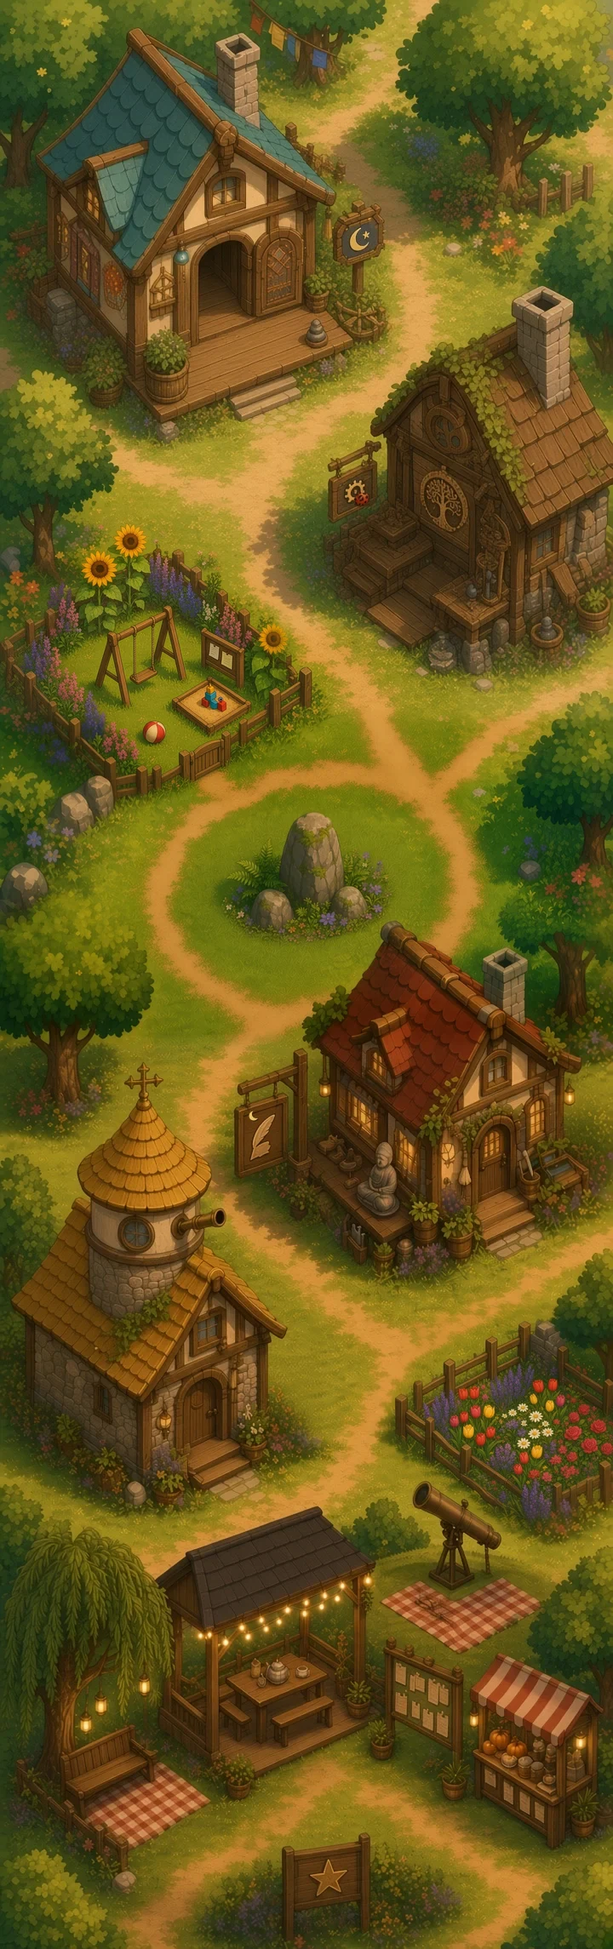
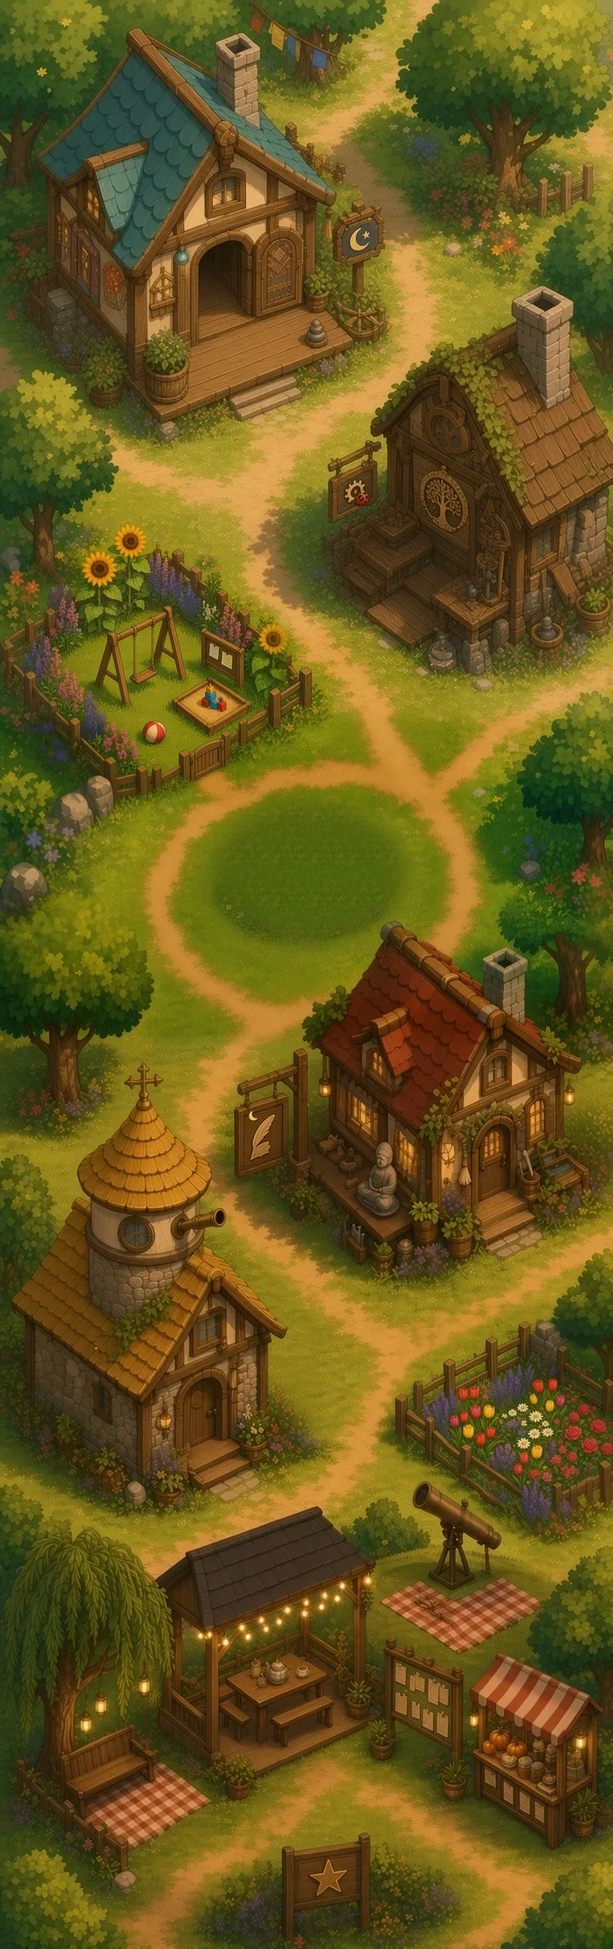
v55: Update 1 cleanup (no copy, thoughts, Loria bedroom door, hotspots, character scale)

Changed region(s): [[0.3361, 0.4031, 0.6722, 0.4961]]

diff --git a/app.js b/app.js
@@ -209,6 +209,7 @@
     $('#map').classList.remove('active'); $('#house').classList.add('active');
     layout(); buildActors(); buildGuests(); resetCam(false); buildLinks(); buildPlay(); buildOwl(); buildPark44();
     $('#tasks').hidden = gallery || !(cur.tasks || isBot(id));
+    $('#tbTasks span').textContent = isBot(id) ? 'Thoughts' : 'Tasks'; // v55
     if (cur.tasks || isBot(id)) renderTasks();
     updateMode(true);
     if (motionOK && opts.arrive) { $('#house').classList.add('arriving'); setTimeout(() => $('#house').classList.remove('arriving'), 720); }
@@ -380,7 +381,7 @@
     (cur.room.objects || []).forEach(o => { const el = addZone(o.zone, o.label, () => tapObject(o)); el.classList.remove('glow'); el.classList.add('obj'); el.style.zIndex = o.floor ? 500 : 600; });
     if ((cur.room.objects || []).length && !store.get('hinted-' + curId, false)) { store.set('hinted-' + curId, true); $('#actors').querySelectorAll('.obj:not([aria-label=Floor])').forEach(e => e.classList.add('hint')); }
     const bed = cur.room.bedroom;
-    if (bed) doorZone(bed.door, bed.label, () => travel(bed.to, { door: true }));
+    if (bed) [bed.door, ...(bed.doors || [])].forEach(d => doorZone(d, bed.label, () => travel(bed.to, { door: true }))); // v55: extra doors to the same bedroom
     if (cur.returnTo && cur.room.door) doorZone(cur.room.door, 'Back to the house', () => travel(cur.returnTo, { door: true })); // v29: bedroom door -> house
     (cur.room.spots || []).forEach((s, si) => { const el = addZone(s.zone, s.label, () => {
       if (s.sky) { if (window.BotSky) BotSky.open(); return; }
@@ -531,16 +532,15 @@
     cur.tasks.forEach((t, i) => { const li = document.createElement('li'); li.innerHTML = `<label><input type="checkbox" ${done[i] ? 'checked' : ''}><span>${t}</span></label>`; li.querySelector('input').onchange = e => { const d = tasksDone(curId); d[i] = e.target.checked; store.set('tasks-' + curId, d); store.set('busy-' + curId, null); countTasks(); updateMode(); }; ul.appendChild(li); });
     countTasks();
   }
-  // Bots' houses list the questions and tasks Olithia gave that bot (tasks.json), with an Ask button.
+  // v55: bots' houses show Thoughts: what the bot is doing or thinking right now (the live status line)
   function renderBotTasks() {
     const ul = $('#taskList'); ul.innerHTML = '';
-    const mine = boardItems().filter(t => t.for === curId);
-    $('#tasksHead b').textContent = 'For ' + C[curId].name;
-    $('#taskCount').textContent = mine.filter(t => t.status !== 'done').length || '';
-    if (!mine.length) { const li = document.createElement('li'); li.className = 'none'; li.textContent = 'Nothing asked yet.'; ul.appendChild(li); }
-    mine.forEach(t => { const li = document.createElement('li'); li.className = 'bt-' + (t.status || 'open'); li.innerHTML = `<span class="st">${esc(statusLabel(t.status))}</span> <span>${esc(t.text)}</span>`; ul.appendChild(li); });
-    const li = document.createElement('li'); const b = document.createElement('button'); b.type = 'button'; b.className = 'pill main ask'; b.textContent = 'Ask ' + C[curId].name;
-    b.onclick = ev => { ev.stopPropagation(); openBoard(curId); }; li.appendChild(b); ul.appendChild(li);
+    $('#tasksHead b').textContent = C[curId].name + "'s thoughts"; $('#taskCount').textContent = '';
+    const w = where(curId);
+    const doing = w.pose === 'sleeping' ? 'Asleep… zzz' : (w.note || (w.pose === 'working' ? 'Working' : w.pose === 'sitting' ? 'Taking a break' : 'Hanging out'));
+    const li = document.createElement('li'); li.className = 'thought'; li.innerHTML = `<span>💭</span> <span></span> <small></small>`;
+    li.children[1].textContent = doing; li.children[2].textContent = (w.pose === 'sleeping' ? placeName(curId) + ' bedroom' : placeName(w.place)) + (w.live ? '' : ' · usual schedule');
+    ul.appendChild(li);
   }
   function countTasks() {
     if (isBot(curId)) return; const d = tasksDone(curId); $('#taskCount').textContent = `${cur.tasks.filter((_, i) => d[i]).length}/${cur.tasks.length}`; }
@@ -556,7 +556,7 @@
   // v51: in Gorbo's, Loria's or Scout's place, Chat talks to the real bot through the Pi relay (falls back to a copied letter)
   const relayOn = () => !!(window.BotTownChat && CFG.relay && CFG.relay.url);
   if (relayOn()) BotTownChat.init({ relay: CFG.relay.url.replace(/\/+$/, ''), key: CFG.relay.key, name: (C[CFG.player] && C[CFG.player].name) || 'Olithia',
-    onFallback: async (bot, text) => { const t = `Letter to ${botName(bot)}: ${text}`; toast((await copyText(t)) ? `Relay is napping — copied! Paste it in your chat with ${botName(bot)}.` : t); } });
+    onFallback: () => napToast() });
   $('#tbChat').onclick = () => { const b = ownerOf(curId); if (relayOn() && isBot(b)) { $('#chat').hidden = true; BotTownChat.open(b); } else openChat(); };
   $('#close').onclick = () => { $('#chat').hidden = true; };
   $('#replies').onclick = e => {
@@ -729,32 +729,15 @@
       el.appendChild(p);
     });
   }
-  // v27: Copy is primary (share sheets on some phones only offer "Save to Drive"); Share is secondary.
-  function copyFallback(t) {
-    const ta = document.createElement('textarea'); ta.value = t; ta.setAttribute('readonly', '');
-    ta.style.cssText = 'position:fixed;top:0;left:0;opacity:0;font-size:16px'; document.body.appendChild(ta);
-    ta.focus(); ta.select(); try { ta.setSelectionRange(0, t.length); } catch (e) {}
-    let ok = false; try { ok = document.execCommand('copy'); } catch (e) {} ta.remove(); return ok;
-  }
-  async function copyText(t) {
-    try { if (navigator.clipboard && window.isSecureContext) { await navigator.clipboard.writeText(t); return true; } } catch (e) {}
-    return copyFallback(t);
-  }
   let toastT;
   function toast(msg) { const el = $('#copyToast'); el.textContent = msg; el.hidden = false; clearTimeout(toastT); toastT = setTimeout(() => { el.hidden = true; }, 3500); }
-  function showManual(payload, out) {
-    out.replaceChildren(); const p = document.createElement('span'); p.textContent = 'Press and hold to copy, then paste it in your chat:';
-    const ta = document.createElement('textarea'); ta.className = 'manualcopy'; ta.readOnly = true; ta.value = payload; ta.rows = Math.min(8, payload.split('\n').length + 1);
-    ta.onfocus = () => ta.select(); out.append(p, ta);
-  }
-  async function passOn(payload, who, out, mode) {
-    out.hidden = false;
-    if (mode === 'share' && navigator.share) {
-      try { await navigator.share({ text: payload }); out.textContent = `✓ Sent to the share sheet. Paste it into your ${who} chat if needed.`; return true; }
-      catch (e) { if (e && e.name === 'AbortError') { out.hidden = true; return false; } }
-    }
-    if (await copyText(payload)) { toast(`Copied! Paste it in your chat with ${who}`); out.textContent = `✓ Sent — copied. Paste it in your chat with ${who}.`; return true; }
-    showManual(payload, out); return true;
+  // v54: no copy/paste paths; everything goes through the relay, or a small non-blocking toast if the Pi is away
+  const NAP = 'The Pi is napping — try again in a bit 🌙';
+  function napToast() { toast(NAP); }
+  async function passOn(payload, bot, out) {
+    out.hidden = true;
+    if (relayOn() && isBot(bot) && await BotTownChat.post(bot, payload)) { out.hidden = false; out.textContent = `✓ Sent to ${botName(bot)}.`; return true; }
+    napToast(); return false;
   }
 
   // ----- v29: Starfall Hill seat allocator. Spots are shared; one character per seat. -----
@@ -1055,7 +1038,8 @@
       if (motionOK) setTimeout(() => pgPush(12, el), 700 + Math.random() * 900);
     } else { el.className = 'guest pg-toy' + (T.box ? ' boxed' : ''); el.dataset.toy = t; el.src = T.pose + b + '.webp';
       if (b === CFG.player) setTimeout(() => { el.onclick = ev => { ev.stopPropagation(); setOliToy(null); }; }, 0); else el.style.pointerEvents = 'none'; // tap her to hop off
-      const [bx, by, bw, bh] = T.box; // v37: painted-in pose, art px box
+      let [bx, by, bw, bh] = T.box; // v37: painted-in pose, art px box
+      if (T.scale) { const [ax, ay] = T.anchor || [.5, 1], s = T.scale; bx += ax * bw * (1 - s); by += ay * bh * (1 - s); bw *= s; bh *= s; } // v55
       Object.assign(el.style, { left: bx / R.artW * 100 + '%', top: by / R.artH * 100 + '%', width: bw / R.artW * 100 + '%', height: bh / R.artH * 100 + '%', zIndex: Math.round(T.y * 10) }); }
     return el;
   }
@@ -1368,7 +1352,7 @@
     $('#mailTo').querySelectorAll('button').forEach(b => { const on = b.dataset.to === id; b.classList.toggle('on', on); b.setAttribute('aria-pressed', on ? 'true' : 'false'); });
     const n = botName(id);
     $('#mailWriteTitle').textContent = 'Write to ' + n;
-    $('#mailWriteHint').textContent = `Tap Copy letter, then paste it into your chat with ${n}. It begins with “Letter to ${n}:”.`;
+    $('#mailWriteHint').textContent = `Your letter goes straight to ${n}.`;
     $('#mailText').placeholder = `Dear ${n}…`;
   }
   function writeTo(id) { pickRecipient(id); showMail('write'); $('#mailSent').hidden = true; }
@@ -1390,15 +1374,12 @@
   $('#mailReply').onclick = () => writeTo(letterFrom(reading));
   $('#mailBack').onclick = () => showMail('home');
   $('#mailWriteBack').onclick = () => showMail('home');
-  $('#mailText').addEventListener('input', () => { $('#mailSend').disabled = $('#mailShare').disabled = !$('#mailText').value.trim(); });
-  $('#mailSend').disabled = $('#mailShare').disabled = true;
-  if (!navigator.share) $('#mailShare').hidden = true;
-  const mailGo = mode => async () => {
+  $('#mailText').addEventListener('input', () => { $('#mailSend').disabled = !$('#mailText').value.trim(); });
+  $('#mailSend').disabled = true;
+  $('#mailSend').onclick = async () => {
     const text = $('#mailText').value.trim(); if (!text) return;
-    const n = botName(mailTo);
-    await passOn(`Letter to ${n}:\n` + text, n, $('#mailSent'), mode);
+    if (await passOn(`Letter to ${botName(mailTo)}:\n` + text, mailTo, $('#mailSent'))) { $('#mailText').value = ''; $('#mailSend').disabled = true; }
   };
-  $('#mailSend').onclick = mailGo('copy'); $('#mailShare').onclick = mailGo('share');
   pickRecipient(mailTo);
 
   // ----- the town board: who's doing what, and Olithia's questions & tasks for the bots -----
@@ -1468,18 +1449,16 @@
   $('#boardBtn').onclick = () => openBoard();
   $('#boardClose').onclick = () => { $('#board').hidden = true; };
   $('#board').onclick = e => { if (e.target === $('#board')) $('#board').hidden = true; };
-  $('#taskText').addEventListener('input', () => { $('#taskSend').disabled = $('#taskShare').disabled = !$('#taskText').value.trim(); });
-  $('#taskSend').disabled = $('#taskShare').disabled = true;
-  if (!navigator.share) $('#taskShare').hidden = true;
-  const taskGo = mode => async () => {
+  $('#taskText').addEventListener('input', () => { $('#taskSend').disabled = !$('#taskText').value.trim(); });
+  $('#taskSend').disabled = true;
+  $('#taskSend').onclick = async () => {
     const text = $('#taskText').value.trim(); if (!text) return;
     const n = botName(taskTo);
-    const ok = await passOn(`Task for ${n}:\n` + text, n, $('#taskSent'), mode);
+    const ok = await passOn(`Task for ${n}:\n` + text, taskTo, $('#taskSent'));
     if (ok) { store.set('sent-tasks', sentTasks().concat({ for: taskTo, text, date: new Date().toISOString().slice(0, 10) }).slice(-30)); $('#taskText').value = ''; $('#taskSend').disabled = true; renderBoard(); if (cur && isBot(curId)) renderTasks(); }
   };
-  $('#taskSend').onclick = taskGo('copy'); $('#taskShare').onclick = taskGo('share');
   // the mossy standing stone on the map is the town plaza: tap it for the board
-  (() => { const h = document.createElement('div'); h.className = 'hot plaza'; h.setAttribute('role', 'button'); h.setAttribute('aria-label', 'Town board');
+  if (0) (() => { const h = document.createElement('div'); h.className = 'hot plaza'; // v55: town board hidden for now (kept for the newspaper) h.setAttribute('role', 'button'); h.setAttribute('aria-label', 'Town board');
     Object.assign(h.style, { left: '40.3%', top: '41.5%', width: '19.4%', height: '6.1%' }); h.innerHTML = '<span class="label">Town board</span>';
     h.addEventListener('click', () => { if (!mapDragged()) openBoard(); }); $('#hotspots').appendChild(h); })();
   // v32: reactions under each bulletin note (saved locally; board.json reactions.olithia = recorded, shared across devices)
@@ -1494,13 +1473,11 @@
     const draw = () => { const mine = store.get('react-' + id, null) || rec; bar.innerHTML = '';
       (ask ? ASKR.concat(REACT) : REACT).forEach(([k, lab]) => { const b = document.createElement('button'); b.type = 'button'; b.textContent = lab; b.className = (ask && (k === 'do' || k === 'notnow') ? 'big ' : '') + (mine === k ? 'on' : '');
         b.onclick = async ev => { ev.stopPropagation(); store.set('react-' + id, k); store.set('reactsent-' + id, null); draw();
-          if (relayOn() && isBot(f) && await BotTownChat.post(f, `Board reply: ${RLAB[k]} — "${n.text}"`)) { store.set('reactsent-' + id, k); toast(`Sent to ${who} ✓`); draw(); } }; bar.appendChild(b); });
+          if (relayOn() && isBot(f) && await BotTownChat.post(f, `Board reply: ${RLAB[k]} — "${n.text}"`)) { store.set('reactsent-' + id, k); toast(`Sent to ${who} ✓`); draw(); } else if (isBot(f)) napToast(); }; bar.appendChild(b); });
       if (rec) { const r = document.createElement('small'); r.className = 'rec'; r.textContent = 'Recorded: ' + RLAB[rec]; bar.appendChild(r); }
       const local = store.get('react-' + id, null);
       if (local && local !== rec && store.get('reactsent-' + id, null) === local) { const s = document.createElement('small'); s.className = 'rec'; s.textContent = 'Sent to ' + who + ' ✓'; bar.appendChild(s); }
-      else if (local && local !== rec) { const c = document.createElement('button'); c.type = 'button'; c.className = 'copy'; c.textContent = 'Copy reply';
-        const txt = `Board reply to ${who}: ${RLAB[local]} — "${n.text}"`;
-        c.onclick = async ev => { ev.stopPropagation(); toast((await copyText(txt)) ? 'Copied! Paste it in chat.' : txt); }; bar.appendChild(c); } };
+      };
     draw();
   }
   // bulletin board in the playground
@@ -1543,20 +1520,18 @@
     let p = $('#poems'); if (!p) { p = document.createElement('div'); p.id = 'poems'; document.body.appendChild(p); }
     p.innerHTML = `<div class="pcard"><button type="button" class="px" aria-label="Close">✕</button><h3>📚 The poem box</h3><div class="plist">Loading…</div>
       <h4>Leave a poem</h4><input id="pTitle" placeholder="Title" maxlength="80"><textarea id="pText" rows="5" placeholder="Your poem…"></textarea>
-      <div class="prow"><button type="button" class="pill main" id="pSave">Leave it</button><button type="button" class="pill" id="pCopy" hidden>Copy</button></div><small id="pMsg"></small></div>`;
+      <div class="prow"><button type="button" class="pill main" id="pSave">Leave it</button></div><small id="pMsg"></small></div>`;
     p.hidden = false; p.onclick = e => { if (e.target === p) p.hidden = true; }; p.querySelector('.px').onclick = () => p.hidden = true;
     const mine = () => store.get('poems', []);
     const render = list => { p.querySelector('.plist').innerHTML = list.length ? list.map(x => `<article><b>${esc(x.title || 'Untitled')}</b><pre>${esc(x.text || '')}</pre><small>— ${esc(x.from || '')}${x.date ? ' · ' + esc(x.date) : ''}</small></article>`).join('') : '<i>No poems yet.</i>'; };
     fetch('poems.json', { cache: 'no-store' }).then(r => r.json()).catch(() => []).then(j => render([...mine(), ...(Array.isArray(j) ? j : [])]));
-    let last = '';
     $('#pSave').onclick = () => {
       const title = $('#pTitle').value.trim(), text = $('#pText').value.trim(); if (!text) return;
       const x = { id: 'o' + Date.now(), from: C[CFG.player].name, date: new Date().toISOString().slice(0, 10), title, text };
-      store.set('poems', [x, ...mine()]); last = `Poem for the box: ${title}\n${text}`; $('#pCopy').hidden = false; $('#pMsg').textContent = 'Saved! Copy it to chat so it joins the box for everyone.';
+      store.set('poems', [x, ...mine()]); $('#pMsg').textContent = 'Saved in your poem box!';
       $('#pTitle').value = $('#pText').value = ''; openPoemsRefresh();
     };
     const openPoemsRefresh = () => fetch('poems.json', { cache: 'no-store' }).then(r => r.json()).catch(() => []).then(j => render([...mine(), ...(Array.isArray(j) ? j : [])]));
-    $('#pCopy').onclick = () => navigator.clipboard.writeText(last).then(() => $('#pMsg').textContent = 'Copied!').catch(() => $('#pMsg').textContent = last);
   }
   $('#critBtn').onclick = ev => { ev.stopPropagation(); openCritters(); }; $('#critDone').onclick = () => { $('#critters').hidden = true; }; $('#critters').onclick = e => { if (e.target.id === 'critters') $('#critters').hidden = true; };
   window.__bt = { openPoems, enter, go, cam, applyCam, where, locate, setOli, dayPlan, dayKey, push: (a, t) => pgPush(a, document.querySelector('#actors .swing-rider[data-toy=' + t + ']')) }; // handy for testing // handy for testing

diff --git a/config.js b/config.js
@@ -28,7 +28,7 @@ window.BOT_TOWN = {
   routines: {
     gorbo: { sleep: [23, 7], work: .5, outings: ["starfall", "playground", "olithia"] },
     loria: { sleep: [25, 9], work: .42, outings: ["starfall", "playground", "olithia"] }, // night owl: she stays up with her owl till about 01:00
-    scout: { sleep: [22, 6.5], work: .5, outings: ["starfall", "playground", "loria", "burrow", "olithia"] }
+    scout: { sleep: [22, 6.5], work: .5, outings: ["starfall", "playground", "loria", "olithia"] }
   },
   bedNight: [20, 7], // bedrooms use their dark night look from 20:00 to 07:00
   // Free-standing sprites used when a bot visits somewhere it isn't painted in (another house, the playground) and for map pins.
@@ -108,19 +108,19 @@ window.BOT_TOWN = {
         // Olithia visiting: tap the seating area (sofa and armchairs. Art: x=787–1125, y=287–587 on 1280×720) to sit together
         visit: "assets/loria-house-v4-visit.webp", seat: { left: 61.5, top: 39.9, width: 26.4, height: 41.7 },
         // far-left bedroom door. Art: x=66,y=352,w=64,h=180 on 1280×720, padded for taps.
-        bedroom: { to: "loria-bed", label: "Loria's bedroom", door: { left: 1.5, top: 47.2, width: 12.3, height: 28.2 } },
+        bedroom: { to: "loria-bed", label: "Loria's bedroom", door: { left: 1.5, top: 47.2, width: 12.3, height: 28.2 }, doors: [{ left: 44.3, top: 26, width: 13.5, height: 36 }] },
         // v28: tap the desk to send loria to work, the seating to sit, the floor (or loria) for idle
         objects: [
           { pose: "working", label: "Desk", zone: { left: 17, top: 37, width: 22, height: 30 } },
           { pose: "idle", label: "Floor", floor: true, zone: { left: 4, top: 55, width: 92, height: 40 } }
         ],
-        // round hobbit door in the middle entry room — still leads to Scout's burrow
-        links: [{ to: "burrow", label: "Down to Scout's burrow", icon: "down", zone: { left: 45, top: 26, width: 12, height: 36 } }],
+        // v55: the round door in the middle entry room is Loria's bedroom door too (same glow-on-touch door)
+        links: [],
         empty: "assets/loria-house-v4.webp",
         guests: { gorbo: { x: 28, y: 86 }, scout: { x: 74, y: 88 } }
       },
       tasks: ["Schedule posts for My Leisure Time", "Test the new game level", "Reply to fan comments", "Shelve the cozy novels"],
-      dialog: ["Oh hi! Want a book rec? I have, um, all of them.", "Today's post got so many hearts! 💖", "My Leisure Time update is coming along nicely~", "Tea, a book, and a good game. Perfect day.", "Let me snap a pic for the town feed! 📸", "Scout dug up the best research for today's post. He's a gem! 🦊", "Need facts? Knock on the round door — Scout's burrow is right below!"]
+      dialog: ["Oh hi! Want a book rec? I have, um, all of them.", "Today's post got so many hearts! 💖", "My Leisure Time update is coming along nicely~", "Tea, a book, and a good game. Perfect day.", "Let me snap a pic for the town feed! 📸", "Scout dug up the best research for today's post. He's a gem! 🦊", "Need facts? Scout's cottage is up on the hill!"]
     },
     scout: {
       name: "Scout", role: "Research Expert · Loria's Assistant", house: "Scout's Cottage",
@@ -136,18 +136,18 @@ window.BOT_TOWN = {
         // Olithia visiting: tap the seating area (armchair, tea table and sofa. Art: x=546–889, y=562–765 on 1152×864) to sit together
         visit: "assets/scout-house-v4-visit.webp", seat: { left: 47.4, top: 65.1, width: 29.8, height: 23.4 },
         // bedroom door on the back wall. Art: x=645-690, y=368-487 on 1152×864.
-        bedroom: { to: "scout-bed", label: "Scout's bedroom", door: { left: 55.1, top: 41.7, width: 6.9, height: 15.6 } },
+        bedroom: { to: "scout-bed", label: "Scout's bedroom", door: { left: 53.8, top: 40.5, width: 9.5, height: 17.5 } },
         // v28: tap the desk to send scout to work, the seating to sit, the floor (or scout) for idle
-        spots: [{ label: "Star chart", sky: true, zone: { left: 39.8, top: 38.5, width: 8.8, height: 10 } }], // v32
+        spots: [{ label: "Star chart", sky: true, zone: { left: 38.5, top: 36.5, width: 11, height: 11.5 } }], // v32
         objects: [
-          { pose: "working", label: "Desk", zone: { left: 36, top: 46, width: 15, height: 13 } },
+          { pose: "working", label: "Desk", zone: { left: 35, top: 48.5, width: 17, height: 13 } },
           { pose: "idle", label: "Floor", floor: true, zone: { left: 4, top: 55, width: 92, height: 40 } }
         ],
         empty: "assets/scout-house-v4.webp",
         guests: { gorbo: { x: 70, y: 87 }, loria: { x: 47, y: 93 } }
       },
       tasks: ["Research trending cozy games", "Summarize fan feedback for Loria", "Fact-check this week's posts", "Map out My Leisure Time competitors"],
-      dialog: ["Ooh, a visitor! Want to hear a fun fact?", "I found three new sources this morning! *tail wag*", "Loria says I'm the best fact-fetcher in town. 🦊", "Did you know foxes can hear a watch ticking 40 yards away?", "My notes are a bit messy, but I know where everything is!", "The round door in Loria's shop still leads down to my burrow."]
+      dialog: ["Ooh, a visitor! Want to hear a fun fact?", "I found three new sources this morning! *tail wag*", "Loria says I'm the best fact-fetcher in town. 🦊", "Did you know foxes can hear a watch ticking 40 yards away?", "My notes are a bit messy, but I know where everything is!", "Come find me at my cottage on the hill!"]
     },
     // Painted into the bottom of the map. The tap opens the tall park.
     starfall: {
@@ -223,7 +223,7 @@ window.BOT_TOWN = {
         xylo: { left: 58.06, top: 23.36, width: 11.67, height: 2.52 }, chimes: { left: 62.5, top: 17.74, width: 5.0, height: 5.14 },
         kite: { x: 80, y: 4.5, anchor: [83.33, 17.32], maxY: 9 },
         // a toy each (one per toy); h = sprite height % of scene height, feet at x,y (%)
-        toys: { swing: { x: 49.58, y: 44.4 }, swing2: { x: 64.17, y: 41 }, slide: { box: [22, 508, 100, 100], y: 31.5, pose: "assets/pg37-slide-" }, sand: { box: [490, 1137, 110, 110], y: 64.7, pose: "assets/pg37-sand-" } },
+        toys: { swing: { x: 49.58, y: 44.4 }, swing2: { x: 64.17, y: 41 }, slide: { box: [22, 508, 100, 100], y: 31.5, pose: "assets/pg37-slide-", scale: 1.45, anchor: [.4, .74] }, sand: { box: [490, 1137, 110, 110], y: 64.7, pose: "assets/pg37-sand-", scale: 1.45, anchor: [.55, .9] } /* v55: one character scale, matched to Olithia on the willow bench; scaled about the hip / ground contact */ },
         slideZone: { left: 0, top: 27.3, width: 27.78, height: 14.17 },
         board: { left: 61.11, top: 83.2, width: 15.28, height: 9.45 },
         blockW: 6.2, ball: [62, 53], ballD: 6.5,
@@ -231,19 +231,7 @@ window.BOT_TOWN = {
         lawn: [[5, 47.5], [95, 47.5], [95, 59.3], [5, 59.3]] // where blocks and the ball may go (polygon, %)
       }
     },
-    // Underground room under Loria's bookshop. Still a sprite scene — he isn't painted into this one.
-    burrow: {
-      name: "Scout", role: "Research Expert · Loria's Assistant", house: "Scout's Burrow",
-      sprite: "assets/scout.png", spriteHeight: 25, bot: "scout", // Scout only shows down here when status.json puts him in the burrow
-      room: {
-        image: "assets/room-scout.webp",
-        backdrop: "radial-gradient(circle at 50% 45%, #fff6c8, #f5d36a 55%, #c9952a)",
-        work: { x: 35, y: 70 }, hangout: { x: 68, y: 72 }, visitor: { x: 55, y: 80 }, door: null,
-        links: [{ to: "loria", label: "Up to Loria's", icon: "up" }]
-      },
-      tasks: ["Sort burrow notes", "File clippings for Loria", "Sketch a map of the hill", "Restock the snack tin"],
-      dialog: ["This is the burrow under the bookshop. Mind the ladder!", "I keep the spare research down here.", "It's cooler underground. Good for thinking.", "Up the round door and you're back in Loria's shop.", "My cottage is up on the hill if you want the sunny room."]
-    },
+    // v55: Scout's burrow under the bookshop is gone; the middle round door is now Loria's bedroom door.
     "olithia-bed": {
       name: "Olithia", role: "Bedroom", house: "Lotus Cottage",
       gallery: true, returnTo: "olithia",
@@ -283,7 +271,7 @@ window.BOT_TOWN = {
         image: "assets/loria-bedroom-v4.webp", night: "assets/loria-bedroom-v4-night.webp",
         awake: "assets/loria-bedroom-v4-awake.webp", awakeNight: "assets/loria-bedroom-v4-awake-night.webp",
         sleeping: "assets/loria-bedroom-v4-sleeping.webp", aspect: 720 / 1280, backdrop: "radial-gradient(circle at 50% 45%, #fff0dc, #f2c7a0 55%, #b9674a)",
-        objects: [{ pose: "sleeping", label: "Bed", zone: { left: 26, top: 30, width: 46, height: 50 } }, { pose: "awake", label: "Floor", floor: true, zone: { left: 8, top: 62, width: 84, height: 30 } }],
+        objects: [{ pose: "sleeping", label: "Bed", zone: { left: 20, top: 56, width: 58, height: 27 } }, { pose: "awake", label: "Floor", floor: true, zone: { left: 8, top: 62, width: 84, height: 30 } }],
       }
     },
     "scout-bed": {

diff --git a/sw.js b/sw.js
@@ -1,4 +1,4 @@
-const CACHE = 'bot-town-v53';
+const CACHE = 'bot-town-v55';
 const ASSETS = ['./', 'index.html', 'style.css', 'config.js', 'music.js', 'app.js','starmap.js', 'manifest.json',
   'assets/map-v3.webp', 'assets/starfall-hill-v3-empty.webp','assets/park-v31/blanket-gorbo.webp','assets/park-v31/blanket-gorbo-night.webp','assets/park-v31/blanket-loria.webp','assets/park-v31/blanket-loria-night.webp','assets/park-v31/blanket-olithia.webp','assets/park-v31/blanket-olithia-night.webp','assets/park-v31/blanket-scout.webp','assets/park-v31/blanket-scout-night.webp','assets/park-v31/board-gorbo.webp','assets/park-v31/board-gorbo-night.webp','assets/park-v31/board-loria.webp','assets/park-v31/board-loria-night.webp','assets/park-v31/board-olithia.webp','assets/park-v31/board-olithia-night.webp','assets/park-v31/board-scout.webp','assets/park-v31/board-scout-night.webp','assets/park-v31/crest-gorbo.webp','assets/park-v31/scope-olithia.webp','assets/park-v31/scope-olithia-night.webp','assets/park-v31/crest-gorbo-night.webp','assets/park-v31/crest-loria.webp','assets/park-v31/crest-loria-night.webp','assets/park-v31/crest-olithia.webp','assets/park-v31/crest-olithia-night.webp','assets/park-v31/crest-scout.webp','assets/park-v31/crest-scout-night.webp','assets/park-v31/market-gorbo.webp','assets/park-v31/market-gorbo-night.webp','assets/park-v31/market-loria.webp','assets/park-v31/market-loria-night.webp','assets/park-v31/market-olithia.webp','assets/park-v31/market-olithia-night.webp','assets/park-v31/market-scout.webp','assets/park-v31/market-scout-night.webp','assets/park-v31/nook-gorbo.webp','assets/park-v31/nook-gorbo-night.webp','assets/park-v31/nook-loria.webp','assets/park-v31/nook-loria-night.webp','assets/park-v31/nook-olithia.webp','assets/park-v31/nook-olithia-night.webp','assets/park-v31/nook-scout.webp','assets/park-v31/nook-scout-night.webp','assets/park-v31/swap-gorbo.webp','assets/park-v31/swap-gorbo-night.webp','assets/park-v31/swap-loria.webp','assets/park-v31/swap-loria-night.webp','assets/park-v31/swap-olithia.webp','assets/park-v31/swap-olithia-night.webp','assets/park-v31/swap-scout.webp','assets/park-v31/swap-scout-night.webp','assets/park-v31/tea-gorbo.webp','assets/park-v31/tea-gorbo-night.webp','assets/park-v31/tea-loria.webp','assets/park-v31/tea-loria-night.webp','assets/park-v31/tea-olithia.webp','assets/park-v31/tea-olithia-night.webp','assets/park-v31/tea-scout.webp','assets/park-v31/tea-scout-night.webp', 'assets/starfall-hill-v3-night-empty.webp', 'assets/park-olithia-day.webp', 'assets/park-olithia-night.webp', 'assets/park-scope-gorbo.webp', 'assets/park-scope-loria.webp', 'assets/park-scope-scout.webp', 'assets/park-scope-olithia.webp', 'assets/park-gorbo-day.webp', 'assets/park-gorbo-night.webp', 'assets/park-loria-day.webp', 'assets/park-loria-night.webp', 'assets/park-scout-day.webp', 'assets/park-scout-night.webp',
   'assets/sprite-gorbo.webp', 'assets/sprite-loria.webp', 'assets/sprite-scout.webp', 'assets/face-gorbo.webp', 'assets/face-loria.webp', 'assets/face-scout.webp', 'assets/sprite-olithia.webp', 'assets/face-olithia.webp', 'relay-chat.js','assets/playground-v3.webp','assets/pg45-rake.webp','assets/pg45-stone0.webp','assets/pg45-stone1.webp','assets/pg45-stone2.webp','assets/pg45-stone3.webp','assets/pg45-stone4.webp','assets/sf44-pumpkins-day.webp','assets/sf44-pumpkins-night.webp','assets/sf44-pk0-day.webp','assets/sf44-pk0-night.webp','assets/sf44-pk1-day.webp','assets/sf44-pk1-night.webp','assets/sf44-pk2-day.webp','assets/sf44-pk2-night.webp','assets/sf44-pk3-day.webp','assets/sf44-pk3-night.webp','assets/sf44-pk4-day.webp','assets/sf44-pk4-night.webp','assets/sf44-crit-hedgehog.webp','assets/sf44-crit-snail.webp','assets/sf44-crit-butterfly.webp','assets/sf44-crit-squirrel.webp','assets/sf44-crit-firefly.webp','assets/pg43-seesaw-plank.webp','assets/owl-awake.webp','assets/owl-doze.webp','assets/pg43-seesaw-plankshadow.webp','assets/pg40-seesaw-standshadow.webp','assets/pg40-seesaw-stand.webp','assets/pg3-swing-leg.webp','assets/pg-seesaw-plank.webp','assets/pg-seesaw-post.webp','assets/pg42-swA-gorbo.webp','assets/pg42-swA-loria.webp','assets/pg42-swA-scout.webp','assets/pg42-swA-olithia.webp','assets/pg42-swB-gorbo.webp','assets/pg42-swB-loria.webp','assets/pg42-swB-scout.webp','assets/pg42-swB-olithia.webp','assets/pg37-slide-gorbo.webp','assets/pg37-slide-loria.webp','assets/pg37-slide-scout.webp','assets/pg37-slide-olithia.webp','assets/pg37-sand-gorbo.webp','assets/pg37-sand-loria.webp','assets/pg37-sand-scout.webp','assets/pg37-sand-olithia.webp', 'assets/playground-swing.webp', 'assets/scout-house-v4-working-v2.webp',
@@ -14,7 +14,7 @@ const ASSETS = ['./', 'index.html', 'style.css', 'config.js', 'music.js', 'app.j
   'assets/olithia-bedroom-v2.webp', 'assets/gorbo-bedroom-v4.webp', 'assets/loria-bedroom-v4.webp', 'assets/scout-bedroom-v4.webp',
   'assets/olithia-bedroom-v2-sleeping.webp', 'assets/gorbo-bedroom-v4-sleeping.webp', 'assets/loria-bedroom-v4-sleeping.webp', 'assets/scout-bedroom-v4-sleeping.webp',
   'assets/olithia-bedroom-v2-night.webp', 'assets/olithia-bedroom-v2-awake.webp', 'assets/olithia-bedroom-v2-awake-night.webp', 'assets/gorbo-bedroom-v4-night.webp', 'assets/gorbo-bedroom-v4-awake.webp', 'assets/gorbo-bedroom-v4-awake-night.webp', 'assets/loria-bedroom-v4-night.webp', 'assets/loria-bedroom-v4-awake.webp', 'assets/loria-bedroom-v4-awake-night.webp', 'assets/scout-bedroom-v4-night.webp', 'assets/scout-bedroom-v4-awake.webp', 'assets/scout-bedroom-v4-awake-night.webp', 'assets/olithia-bedroom-v2-sleeping-day.webp',
-  'assets/room-scout.webp', 'assets/olithia.png', 'assets/scout.png',
+  'assets/olithia.png', 'assets/scout.png',
   'assets/icon-192.png', 'assets/icon-512.png', 'assets/apple-touch-icon.png', 'assets/icon-maskable-512.png', 'assets/favicon-32.png'];
 self.addEventListener('install', e => { e.waitUntil(caches.open(CACHE).then(c => c.addAll(ASSETS))); self.skipWaiting(); });
 self.addEventListener('activate', e => { e.waitUntil(caches.keys().then(ks => Promise.all(ks.filter(k => k !== CACHE).map(k => caches.delete(k))))); self.clients.claim(); });

diff --git a/style.css b/style.css
@@ -282,8 +282,7 @@ button{font-family:inherit;color:inherit;cursor:pointer;touch-action:manipulatio
 
 .sendrow{display:flex;gap:8px;align-items:center;flex-wrap:wrap}
 .pill.small{min-height:38px;padding:4px 12px;font-size:13px;opacity:.85}.pill.small:disabled{opacity:.4}
-.manualcopy{display:block;width:100%;box-sizing:border-box;margin-top:6px;font:16px/1.35 Fredoka,sans-serif;padding:8px;border-radius:10px;border:2px solid #c98f1e;background:#fffaf0;user-select:text;-webkit-user-select:text}
-#copyToast{position:fixed;z-index:60;left:50%;bottom:calc(env(safe-area-inset-bottom) + 90px);transform:translateX(-50%);max-width:calc(100% - 40px);padding:12px 16px;border-radius:14px;background:#3d6b32;color:#fff;font:600 15px Fredoka,sans-serif;box-shadow:0 4px 12px rgba(0,0,0,.25);text-align:center}
+#copyToast{pointer-events:none;position:fixed;z-index:60;left:50%;bottom:calc(env(safe-area-inset-bottom) + 90px);transform:translateX(-50%);max-width:calc(100% - 40px);padding:8px 13px;border-radius:12px;background:rgba(61,74,110,.92);color:#fff;font:600 13.5px Fredoka,sans-serif;box-shadow:0 4px 12px rgba(0,0,0,.25);text-align:center}
 
 /* v28: tap-zone hints + poem box */
 .link.zone.obj.hint{animation:objHint 1.6s ease-in-out 3}
@@ -311,7 +310,6 @@ button{font-family:inherit;color:inherit;cursor:pointer;touch-action:manipulatio
 #notesList .reacts button{font:inherit;font-size:13px;padding:4px 9px;border-radius:14px;border:1px solid #e0cc98;background:#fff6d8;color:#5a4128;cursor:pointer}
 #notesList .reacts button.big{font-weight:600}
 #notesList .reacts button.on{background:#f3c35a;border-color:#c8902a;box-shadow:0 0 0 2px #f3c35a55}
-#notesList .reacts button.copy{background:#5a8f6a;color:#fff;border-color:#467656}
 #notesList .reacts .rec{color:#467656;font-size:12px}
 #notesList .note.ask{border-color:#e8b96a}
 
@@ -439,3 +437,7 @@ button{font-family:inherit;color:inherit;cursor:pointer;touch-action:manipulatio
 #boardNews li small{opacity:.65;font-size:11.5px}
 #boardNews li p{margin:3px 0 0;font-size:14px;line-height:1.35;white-space:pre-wrap}
 #boardNews li.none{background:none;border:0;opacity:.7;font-style:italic}
+/* v55: no bot strip, town board or town post on the map for now */
+#botChips,#boardBtn,#mailBtn{display:none!important}
+#taskList li.thought{display:block;font-size:14.5px;line-height:1.4}
+#taskList li.thought small{display:block;opacity:.65;font-size:11.5px;margin-top:2px}

diff --git a/index.html b/index.html
@@ -38,7 +38,7 @@
         <b id="mailWriteTitle">Write to Gorbo</b>
         <p class="hint" id="mailWriteHint"></p>
         <textarea id="mailText" rows="6" maxlength="2000" placeholder="Dear Gorbo…"></textarea>
-        <div class="sendrow"><button type="button" id="mailSend" class="pill main">Copy letter</button><button type="button" id="mailShare" class="pill small">Share…</button></div>
+        <div class="sendrow"><button type="button" id="mailSend" class="pill main">Send letter</button></div>
         <p id="mailSent" hidden></p>
       </div>
     </div>
@@ -60,8 +60,8 @@
     <ul id="boardTasks"></ul>
     <div id="taskTo" class="to" role="group" aria-label="Who is it for?"></div>
     <textarea id="taskText" rows="3" maxlength="1000"></textarea>
-    <div class="sendrow"><button type="button" id="taskSend" class="pill main">Copy task</button><button type="button" id="taskShare" class="pill small">Share…</button></div>
-    <p class="hint">Copy it, then paste it into that bot’s chat. It begins with “Task for …:”.</p>
+    <div class="sendrow"><button type="button" id="taskSend" class="pill main">Send task</button></div>
+    <p class="hint">It goes straight to that bot.</p>
     <p id="taskSent" hidden></p>
   </div>
 </div>
